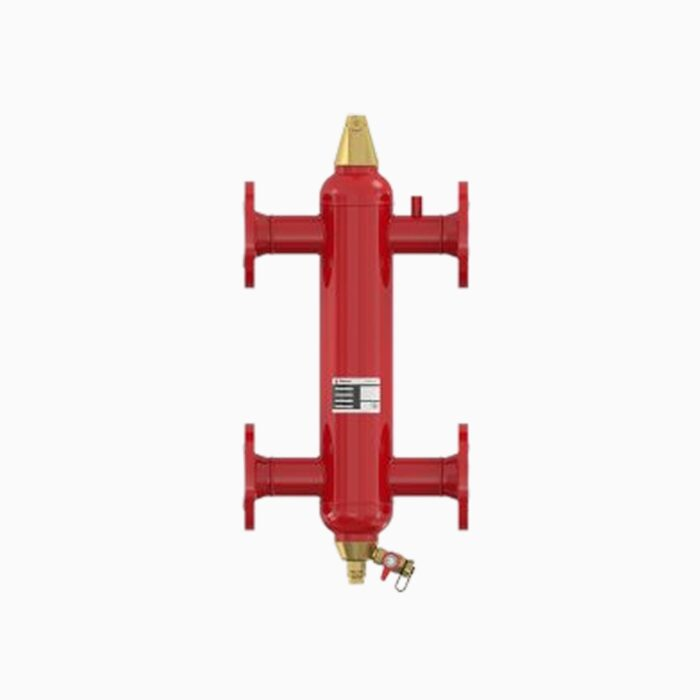
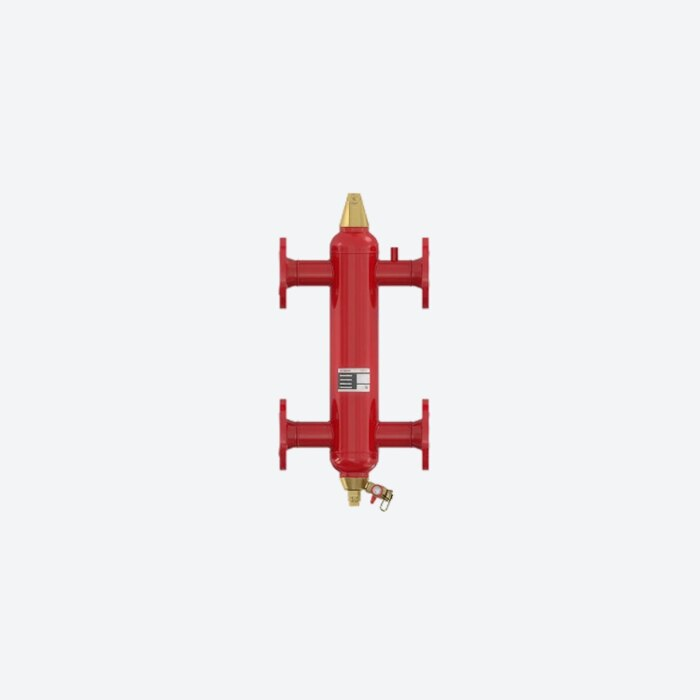
Flamco: обновить фото у всех 4 карточек Brand Catalog
Заменил снимки на новые из «Каталог Фото/Flamco/Brand Catalog» — те же
4 категории, тот же порядок (расширительный бак → сепаратор воздуха и
шлама → гидравлический разделитель → станция водоподготовки), просто
другие фото: были каждое на своём фоне без единого стиля, стали
однородные предметные снимки на светлом фоне — как у остальных
брендов, добавленных позже.

Новые исходники — 750x750 (были крупнее, отсюда раньше набор ширин был
полный 400/700/1000/1400). Переопределил на [400, 700] через объектную
форму { widths, cards } — тот же приём, что у Geberit/Tece/Oventrop/
Wilo/Viessmann, иначе 1000/1400 были бы апскейлом. Старые -1000/-1400
файлы удалил как больше не нужные.

Проверено на сборке: у flamco по-прежнему 4 карточки с тем же текстом,
битых путей к картинкам нет, srcset просит только 400/700, остальные
восемь брендов не задеты.

Changed region(s): [[0.33, 0.15, 0.69, 0.84]]

diff --git a/src/_data/brandCategories.js b/src/_data/brandCategories.js
@@ -63,28 +63,40 @@ module.exports = {
     },
   ],
 
-  flamco: [
-    {
-      image: "flamco-expansion",
-      title: "Расширительные баки",
-      text: "Компенсируют расширение теплоносителя в&nbsp;закрытых системах отопления.",
-    },
-    {
-      image: "flamco-separators",
-      title: "Сепараторы воздуха и&nbsp;шлама",
-      text: "Удаляют воздух и&nbsp;мелкие частицы грязи из&nbsp;контура системы отопления.",
-    },
-    {
-      image: "flamco-hydraulic",
-      title: "Гидравлические разделители",
-      text: "Разделяют контуры отопления и&nbsp;стабилизируют гидравлику системы.",
-    },
-    {
-      image: "flamco-water",
-      title: "Водоподготовка",
-      text: "Умягчают и&nbsp;очищают воду для&nbsp;котельных и&nbsp;инженерных систем отопления.",
-    },
-  ],
+  /* 20.08: фото заменены на новые из «Каталог Фото/Flamco/Brand
+   * Catalog» — те же 4 категории и тот же порядок, только другие
+   * снимки (были на белом/сером фоне без единого стиля, стали
+   * однородные предметные фото на светлом фоне, как у остальных
+   * брендов). Новые исходники — 750x750, поэтому набор ширин
+   * переопределён на [400, 700] (см. разбор у geberit выше и в
+   * brand-catalog.njk) — раньше у Flamco было 400/700/1000/1400,
+   * потому что исходники были крупнее; старые 1000/1400-файлы удалены
+   * как апскейл новых 750x750. */
+  flamco: {
+    widths: [400, 700],
+    cards: [
+      {
+        image: "flamco-expansion",
+        title: "Расширительные баки",
+        text: "Компенсируют расширение теплоносителя в&nbsp;закрытых системах отопления.",
+      },
+      {
+        image: "flamco-separators",
+        title: "Сепараторы воздуха и&nbsp;шлама",
+        text: "Удаляют воздух и&nbsp;мелкие частицы грязи из&nbsp;контура системы отопления.",
+      },
+      {
+        image: "flamco-hydraulic",
+        title: "Гидравлические разделители",
+        text: "Разделяют контуры отопления и&nbsp;стабилизируют гидравлику системы.",
+      },
+      {
+        image: "flamco-water",
+        title: "Водоподготовка",
+        text: "Умягчают и&nbsp;очищают воду для&nbsp;котельных и&nbsp;инженерных систем отопления.",
+      },
+    ],
+  },
 
   elco: [
     {
